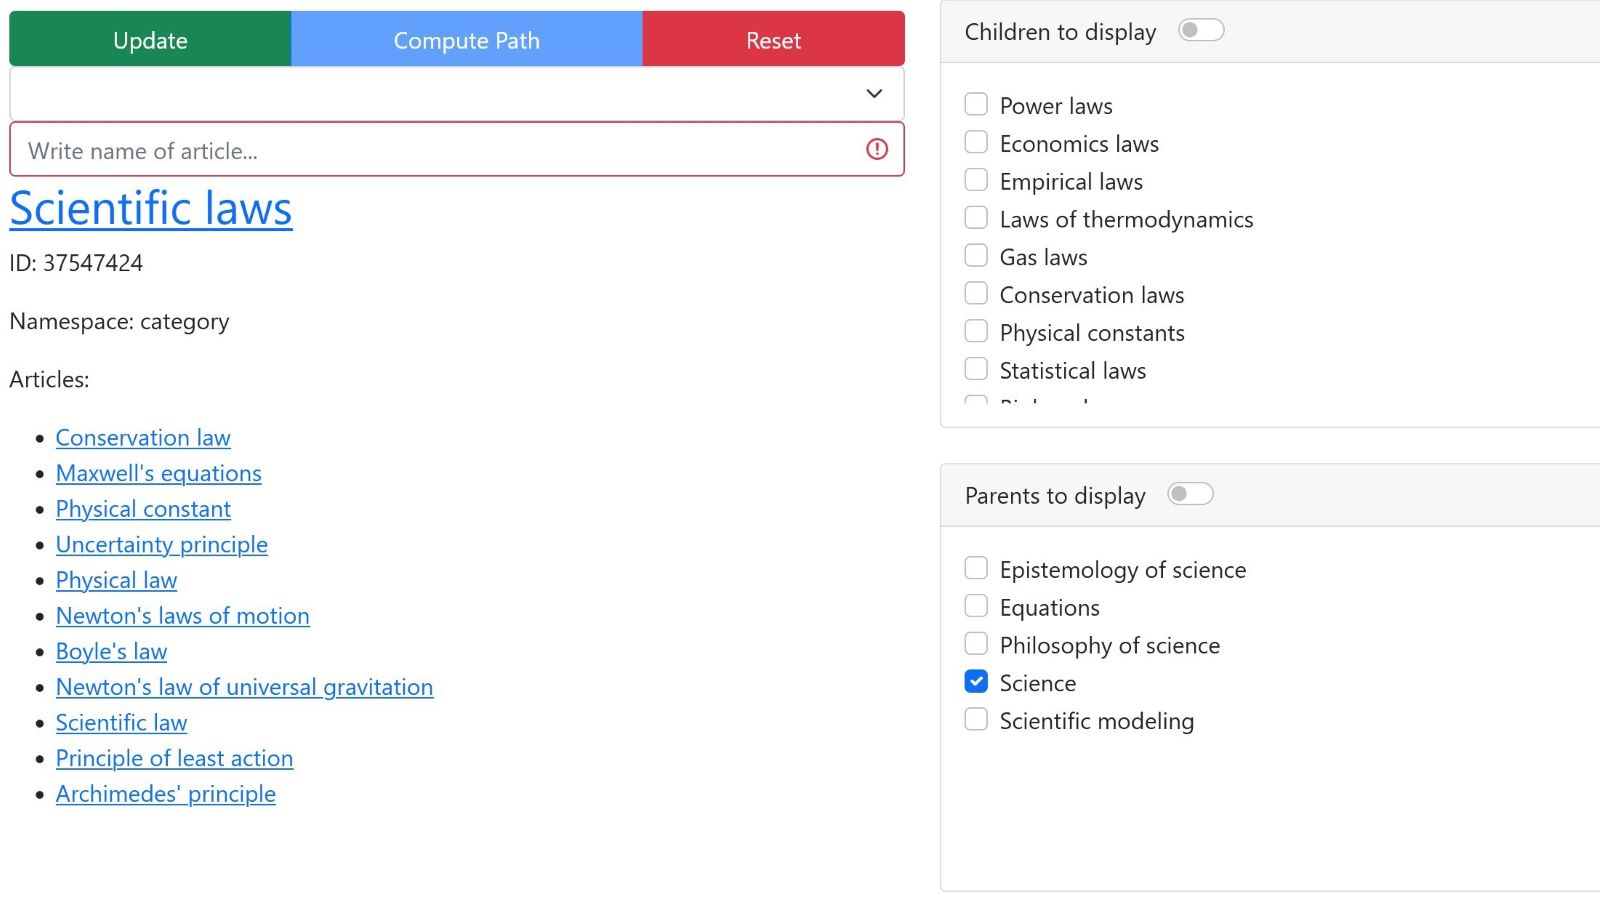
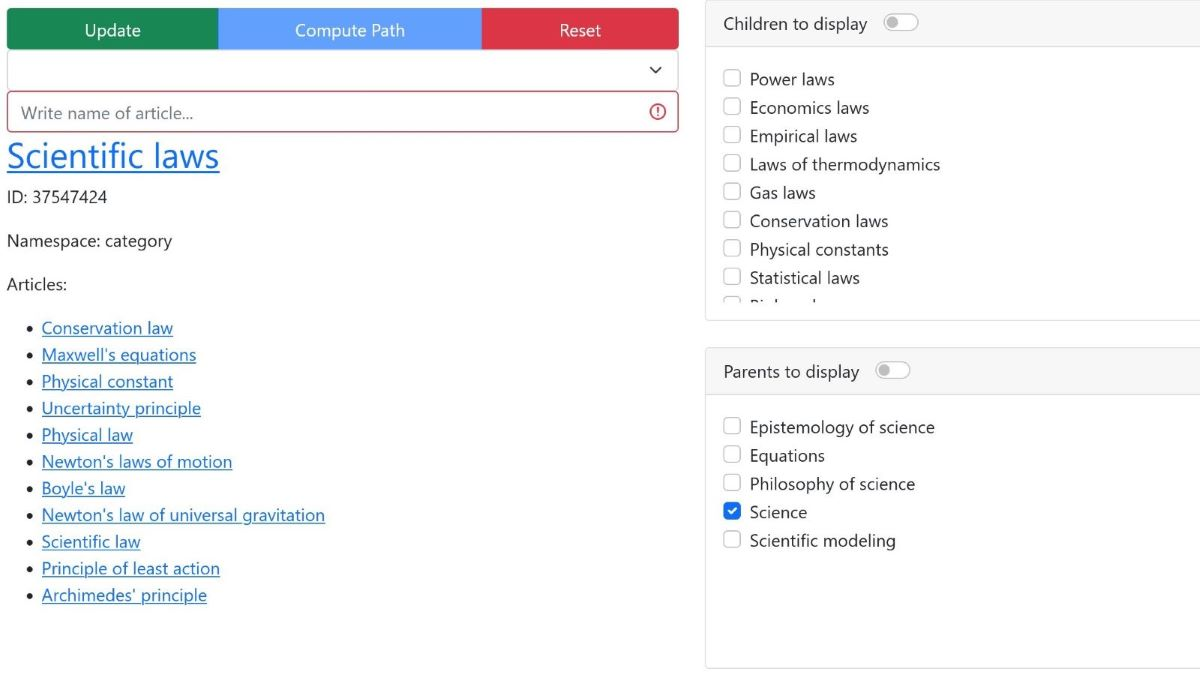
Compress images for faster loading

diff --git a/README.md b/README.md
@@ -2,7 +2,7 @@
 
 *A Python toolkit for managing and navigating graphs of Wikipedia categories 🔖*
 
-| ![API Sample](assets/api.png) | ![CLI Sample](assets/cli.png) |
+| ![API Sample](assets/api.jpg) | ![CLI Sample](assets/cli.jpg) |
 |:---:|:---:|
 | Simple [Python API](#main-api) for exploring graph offline | Useful CLI for [processing](#wikicatprocessing) and [launching app](#wikicatviewer) |
 | ![Interactive network](assets/interactive_network.jpg) | ![panels in the user interface](assets/ui.jpg) |
